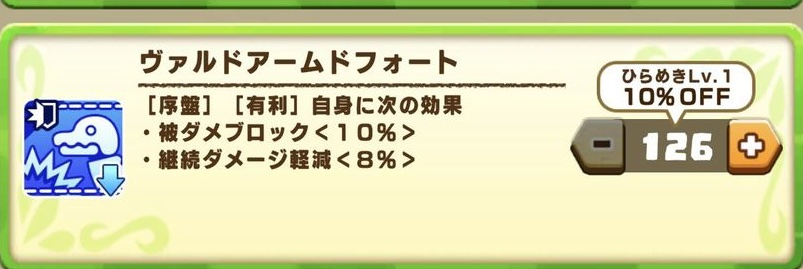
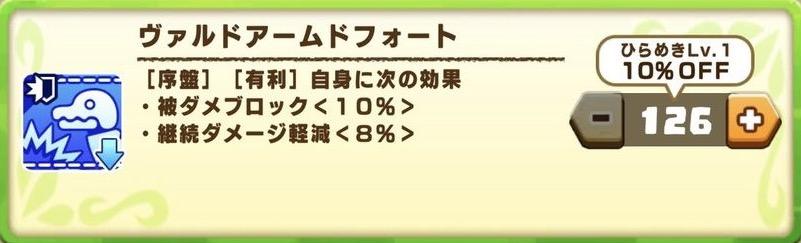
育成ストーリー解説にヴァルドフィクスブレスを追加し、アームドフォートの画像を切り直し
- シロモッチーの3つ目の能力「ヴァルドフィクスブレス」（160Pt）を表と画像に追加し、確認中の項目から外す
- アームドフォートの画像を本来の枠から切り直し、上に写り込んでいた別カードの枠線を除去

diff --git a/ikusei/story-torble.html b/ikusei/story-torble.html
@@ -839,14 +839,15 @@
         <tr><th>能力</th><th>効果</th></tr>
         <tr><td>ヴァルドエピックグロウ<span class="sub-info">120Pt</span></td><td>バトル中、自身に次の効果<br><span class="cond">オーラ有利</span>すべての技に［業物Lv3］<br><span class="cond">モン類有利</span>前の技の与ダメージが低いほど、次の技の命中率アップ（最大15%）</td></tr>
         <tr><td>ヴァルドアームドフォート<span class="sub-info">140Pt</span></td><td><span class="cond">序盤</span><span class="cond">有利</span><br>自身に、被ダメブロック10%と継続ダメージ軽減8%</td></tr>
-        <tr><td>3つ目</td><td style="color:#999;">確認中</td></tr>
+        <tr><td>ヴァルドフィクスブレス<span class="sub-info">160Pt</span></td><td><span class="cond">有利</span><br>バトル開始時、自身に次の効果（解除不可）<br>・最大ガッツを120にする<br>・ガッツ20回復</td></tr>
       </table>
     </div>
     <details class="shots">
       <summary>シロモッチーの能力の画像</summary>
       <div class="shot-list">
         <figure><img src="../ikusei-img/story-torble/vald-shiro-epicgrow.jpg" alt="ヴァルド能力「ヴァルドエピックグロウ」" width="840" height="253" loading="lazy"><figcaption>ヴァルドエピックグロウ</figcaption></figure>
-        <figure><img src="../ikusei-img/story-torble/vald-shiro-armedfort.jpg" alt="ヴァルド能力「ヴァルドアームドフォート」" width="803" height="269" loading="lazy"><figcaption>ヴァルドアームドフォート</figcaption></figure>
+        <figure><img src="../ikusei-img/story-torble/vald-shiro-armedfort.jpg" alt="ヴァルド能力「ヴァルドアームドフォート」" width="801" height="243" loading="lazy"><figcaption>ヴァルドアームドフォート</figcaption></figure>
+        <figure><img src="../ikusei-img/story-torble/vald-shiro-fixbreath.jpg" alt="ヴァルド能力「ヴァルドフィクスブレス」" width="840" height="252" loading="lazy"><figcaption>ヴァルドフィクスブレス</figcaption></figure>
       </div>
     </details>
   </div>
@@ -883,7 +884,6 @@
     <p>次の項目は、まだ確認できていません。分かりしだい追記します。</p>
     <ul>
       <li>ヴァルド能力のうち、画像で確かめていない距離の組み合わせ（名前・効果・必要Ptは、ほかの距離と同じとして載せています）</li>
-      <li>シロモッチーの3つ目の能力</li>
       <li>陣営秘伝「トーブルの護り手」の効果（グラスラ★1以外の8種）</li>
       <li>EX秘伝「護り手」の効果（★1〜★3）</li>
     </ul>
